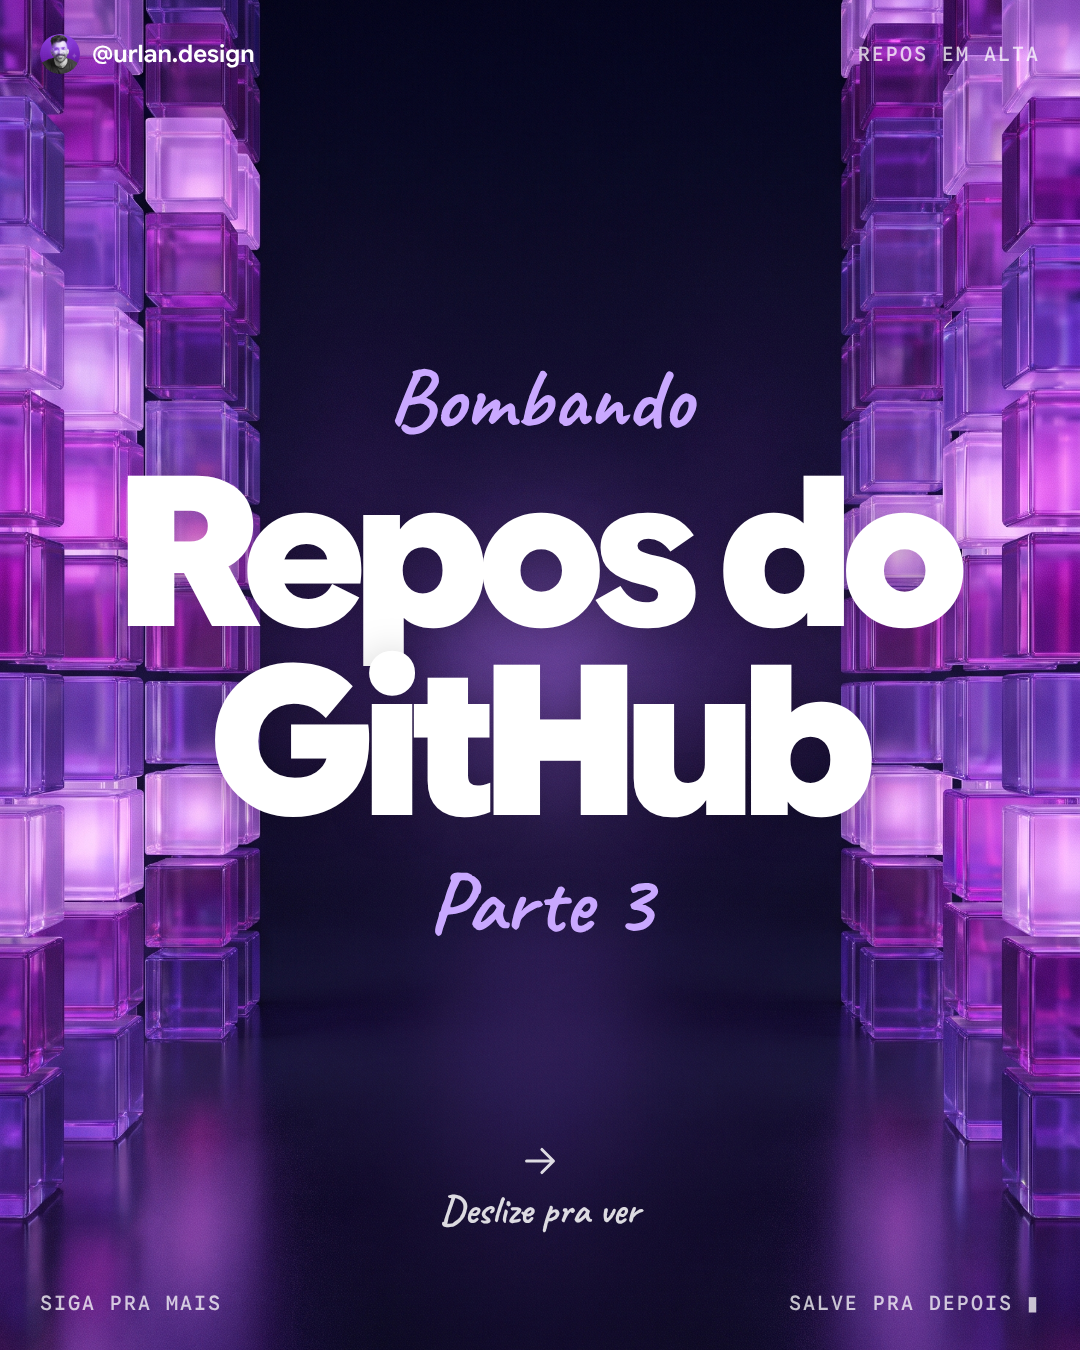
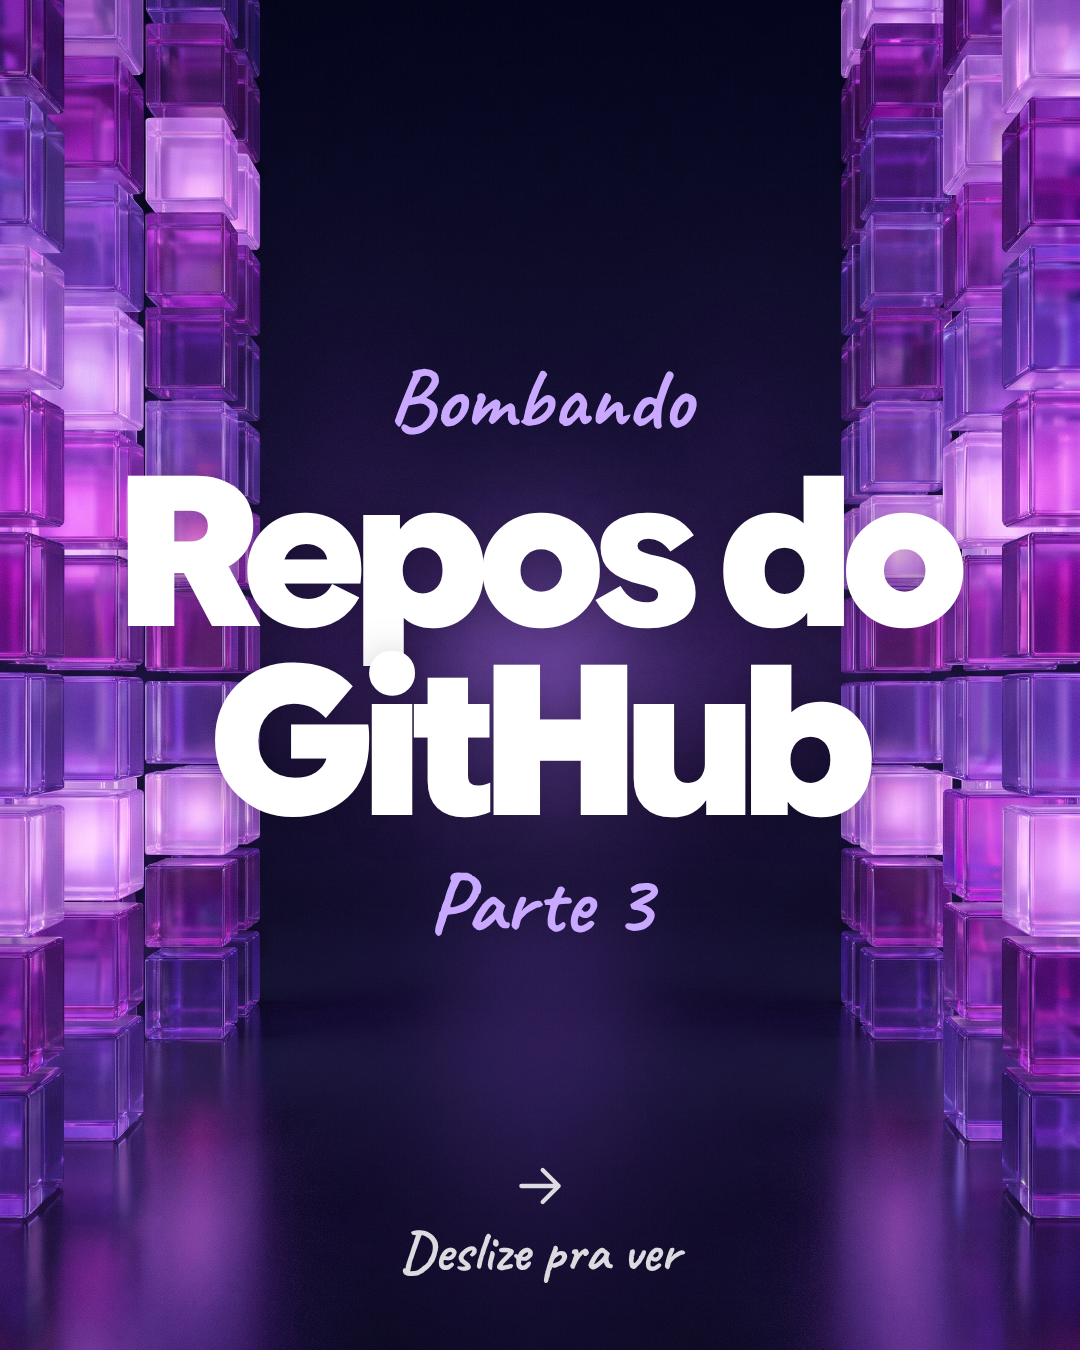
Capas da serie sem textos nos cantos, so Deslize pra ver maior
Claude-Session: https://claude.ai/code/session_01DwYVZ4p9qWAPLeHrrQbmUv

diff --git a/testes-capa/serie/capa-meetings.html b/testes-capa/serie/capa-meetings.html
@@ -12,12 +12,10 @@ html,body{margin:0}
 .mid{position:absolute;left:0;right:0;top:50%;transform:translateY(-54%);text-align:center}
 .s{font-family:Caveat;font-weight:700;font-size:86px;line-height:1;color:#C9A8FF}
 .t{font-weight:800;font-size:210px;line-height:.9;letter-spacing:-6px;margin:18px 0 22px;text-shadow:0 6px 40px rgba(0,0,0,.25)}
-.sw{position:absolute;left:0;right:0;bottom:120px;text-align:center;font-family:Caveat;font-weight:700;font-size:40px;line-height:1;color:rgba(255,255,255,.85)}
+.sw{position:absolute;left:0;right:0;bottom:70px;text-align:center;font-family:Caveat;font-weight:700;font-size:56px;line-height:1;color:rgba(255,255,255,.85)}
 .sw svg{display:block;margin:0 auto 6px}
 </style></head><body><div class="c">
 <img class="bg" src="bg-meetings.png">
-<div class="top"><b><img src="../../template/assets/avatar-hd.webp">@urlan.design</b><span>Novidade</span></div>
 <div class="mid"><div class="s">Novidade da semana</div><div class="t">Claude na<br>reunião</div><div class="s">Claude Meetings</div></div>
-<div class="sw"><svg width="46" height="46" viewBox="0 0 24 24" fill="none" stroke="rgba(255,255,255,.85)" stroke-width="1.6" stroke-linecap="round" stroke-linejoin="round"><path d="M5 12h14M13 6l6 6-6 6"/></svg>Deslize pra ver</div>
-<div class="foot"><span>Siga pra mais</span><span>Salve pra depois ▮</span></div>
+<div class="sw"><svg width="64" height="64" viewBox="0 0 24 24" fill="none" stroke="rgba(255,255,255,.85)" stroke-width="1.6" stroke-linecap="round" stroke-linejoin="round"><path d="M5 12h14M13 6l6 6-6 6"/></svg>Deslize pra ver</div>
 </div></body></html>

diff --git a/testes-capa/serie/capa-repos-3.html b/testes-capa/serie/capa-repos-3.html
@@ -12,12 +12,10 @@ html,body{margin:0}
 .mid{position:absolute;left:0;right:0;top:50%;transform:translateY(-54%);text-align:center}
 .s{font-family:Caveat;font-weight:700;font-size:86px;line-height:1;color:#C9A8FF}
 .t{font-weight:800;font-size:210px;line-height:.9;letter-spacing:-6px;margin:18px 0 22px;text-shadow:0 6px 40px rgba(0,0,0,.25)}
-.sw{position:absolute;left:0;right:0;bottom:120px;text-align:center;font-family:Caveat;font-weight:700;font-size:40px;line-height:1;color:rgba(255,255,255,.85)}
+.sw{position:absolute;left:0;right:0;bottom:70px;text-align:center;font-family:Caveat;font-weight:700;font-size:56px;line-height:1;color:rgba(255,255,255,.85)}
 .sw svg{display:block;margin:0 auto 6px}
 </style></head><body><div class="c">
 <img class="bg" src="bg-repos-3.png">
-<div class="top"><b><img src="../../template/assets/avatar-hd.webp">@urlan.design</b><span>Repos em alta</span></div>
 <div class="mid"><div class="s">Bombando</div><div class="t">Repos do<br>GitHub</div><div class="s">Parte 3</div></div>
-<div class="sw"><svg width="46" height="46" viewBox="0 0 24 24" fill="none" stroke="rgba(255,255,255,.85)" stroke-width="1.6" stroke-linecap="round" stroke-linejoin="round"><path d="M5 12h14M13 6l6 6-6 6"/></svg>Deslize pra ver</div>
-<div class="foot"><span>Siga pra mais</span><span>Salve pra depois ▮</span></div>
+<div class="sw"><svg width="64" height="64" viewBox="0 0 24 24" fill="none" stroke="rgba(255,255,255,.85)" stroke-width="1.6" stroke-linecap="round" stroke-linejoin="round"><path d="M5 12h14M13 6l6 6-6 6"/></svg>Deslize pra ver</div>
 </div></body></html>

diff --git a/testes-capa/serie/capa.tpl.html b/testes-capa/serie/capa.tpl.html
@@ -12,12 +12,10 @@ html,body{margin:0}
 .mid{position:absolute;left:0;right:0;top:50%;transform:translateY(-54%);text-align:center}
 .s{font-family:Caveat;font-weight:700;font-size:86px;line-height:1;color:ACC}
 .t{font-weight:800;font-size:210px;line-height:.9;letter-spacing:-6px;margin:18px 0 22px;text-shadow:0 6px 40px rgba(0,0,0,.25)}
-.sw{position:absolute;left:0;right:0;bottom:120px;text-align:center;font-family:Caveat;font-weight:700;font-size:40px;line-height:1;color:rgba(255,255,255,.85)}
+.sw{position:absolute;left:0;right:0;bottom:70px;text-align:center;font-family:Caveat;font-weight:700;font-size:56px;line-height:1;color:rgba(255,255,255,.85)}
 .sw svg{display:block;margin:0 auto 6px}
 </style></head><body><div class="c">
 <img class="bg" src="BG">
-<div class="top"><b><img src="../../template/assets/avatar-hd.webp">@urlan.design</b><span>Color combos</span></div>
 <div class="mid"><div class="s">Tons de roxo</div><div class="t">Color<br>combos</div><div class="s">Parte 1</div></div>
-<div class="sw"><svg width="46" height="46" viewBox="0 0 24 24" fill="none" stroke="rgba(255,255,255,.85)" stroke-width="1.6" stroke-linecap="round" stroke-linejoin="round"><path d="M5 12h14M13 6l6 6-6 6"/></svg>Deslize pra ver</div>
-<div class="foot"><span>Siga pra mais</span><span>Salve pra depois ▮</span></div>
+<div class="sw"><svg width="64" height="64" viewBox="0 0 24 24" fill="none" stroke="rgba(255,255,255,.85)" stroke-width="1.6" stroke-linecap="round" stroke-linejoin="round"><path d="M5 12h14M13 6l6 6-6 6"/></svg>Deslize pra ver</div>
 </div></body></html>

diff --git a/REGRAS.md b/REGRAS.md
@@ -65,7 +65,7 @@ Antes de subir qualquer imagem, reler o texto com estas perguntas e corrigir o q
 ## Capas: referência fixa
 
 - **Toda capa nova usa como referência o Instagram @craftwork.design** (https://www.instagram.com/craftwork.design/), adaptado à marca. Salvo em 05/11/2026.
-- Padrão: estilo "série". Fundo gerado no Nano Banana Pro (diferente a cada post, roxo/lilás, centro calmo), título centralizado em 3 camadas (manuscrita Caveat / tema em Google Sans Flex 800 / manuscrita), uma cor de destaque puxada do fundo, moldura discreta (@ e série no topo; "Deslize pra ver", "Siga pra mais", "Salve pra depois" no rodapé).
+- Padrão: estilo "série". Fundo gerado no Nano Banana Pro (diferente a cada post, roxo/lilás, centro calmo), título centralizado em 3 camadas (manuscrita Caveat / tema em Google Sans Flex 800 / manuscrita), uma cor de destaque puxada do fundo, sem textos nos cantos (decisão de 16/11/2026): só "Deslize pra ver" com seta, em 56 px, no rodapé.
 - Template da capa: `testes-capa/serie/capa.tpl.html`. Exemplos aprovados: `capa-repos`, `capa-cd`, `capa1` (color combos), `capa-dia-design-3d`.
 - **Posição do título: igual em todas as capas da série.** Bloco do título (`.mid`) em `top:50%` com `translateY(-54%)`, título em 210px. Não usar `style` inline para subir, descer ou reduzir o título. Se o texto não couber, encurtar o texto, não mover o bloco. Motivo: no feed as capas aparecem lado a lado, e uma capa com o título mais alto parece desalinhada (feedback do Urlan em 12/11/2026, capa "Apps no Claude" estava em 40% e 190px).
 - Antes de agendar uma capa nova, comparar lado a lado com a capa anterior da série (mesma altura do título, mesmo tamanho).
